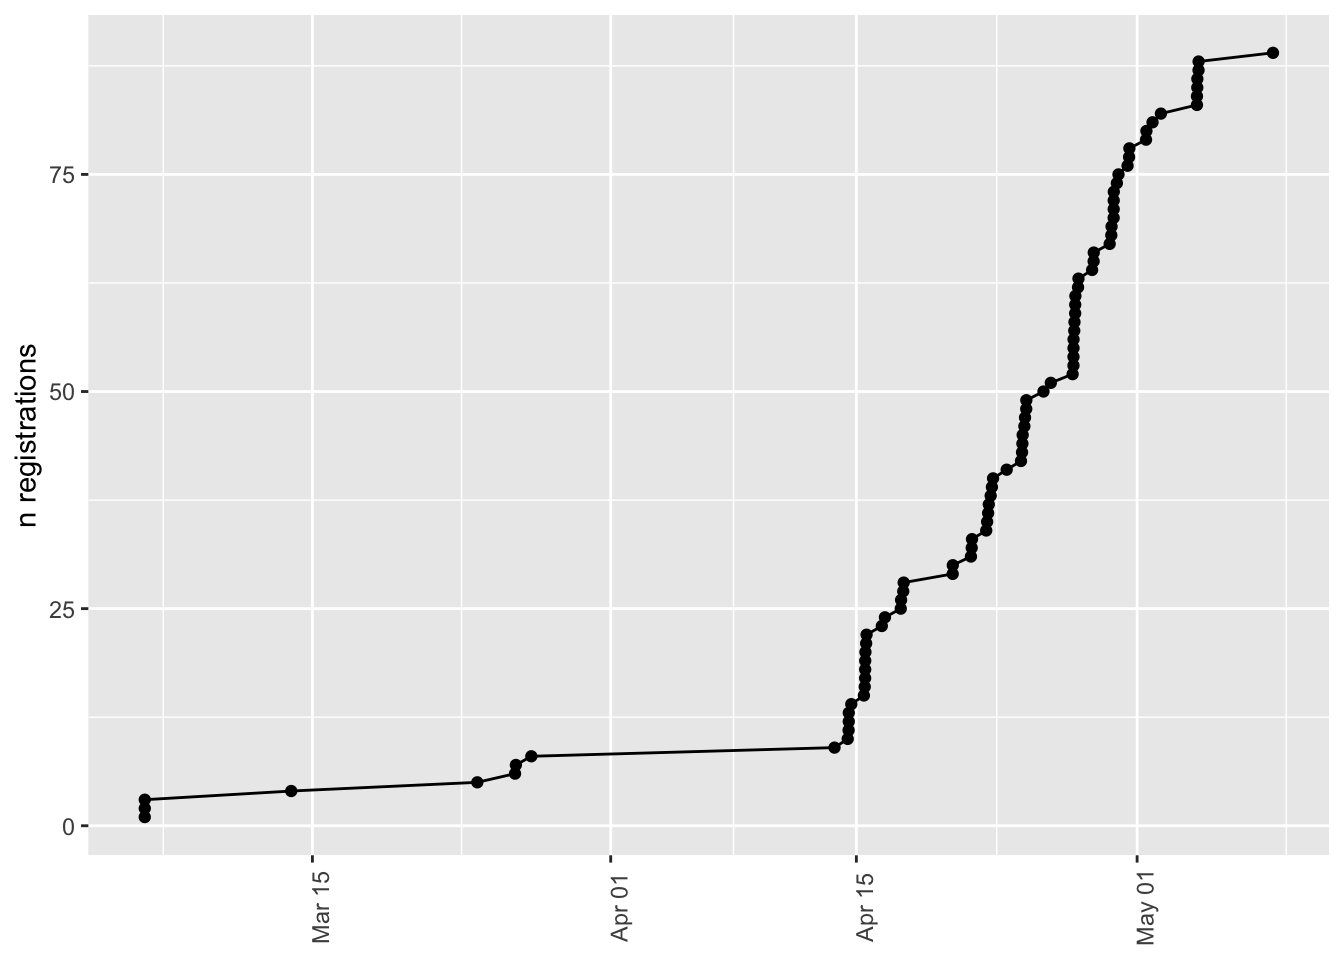
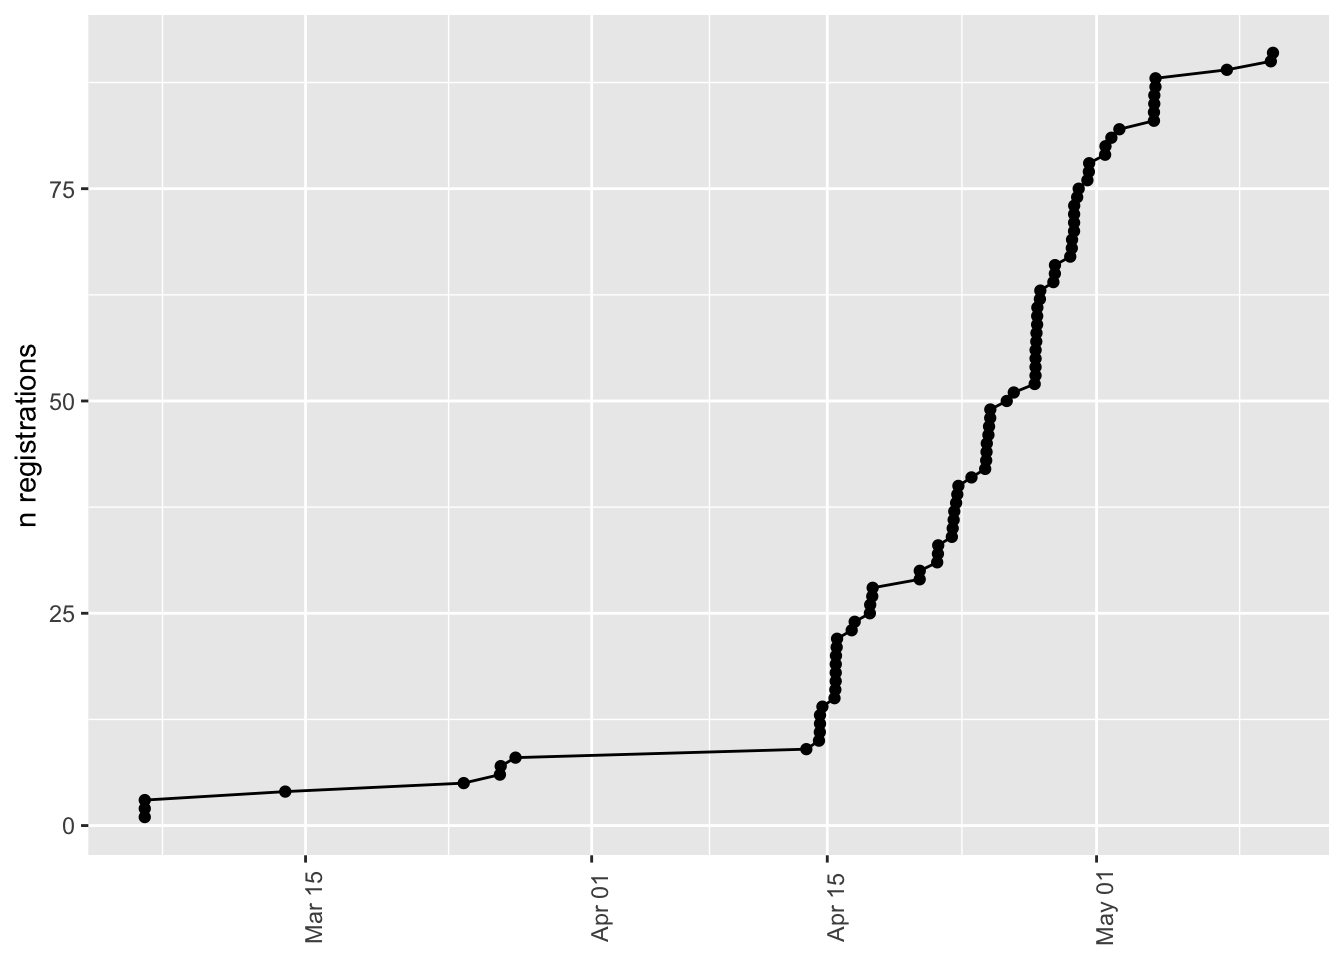
Rerender; add QR code for schedule to welcome slides.

diff --git a/day-1-welcome.html b/day-1-welcome.html
@@ -139,7 +139,15 @@
 <section id="welcome-please-check-in" class="slide level2">
 <h2>Welcome! Please check in</h2>
 
-<img data-src="include/fig/checkin-qr-code-1.png" class="quarto-figure quarto-figure-center r-stretch" width="960"></section>
+<img data-src="include/fig/fig-checkin-qr-code-1.png" id="fig-checkin-qr-code" class="quarto-figure quarto-figure-center r-stretch" width="960"><p class="caption">
+Figure&nbsp;1
+</p></section>
+<section id="bootcamp-schedule" class="slide level2">
+<h2>Bootcamp schedule</h2>
+
+<img data-src="include/fig/fig-schedule-qr-code-1.png" id="fig-schedule-qr-code" class="quarto-figure quarto-figure-center r-stretch" width="960"><p class="caption">
+Figure&nbsp;2
+</p></section>
 <section id="introductions" class="slide level2">
 <h2>Introductions</h2>
 <ul>

diff --git a/docs/signins.html b/docs/signins.html
@@ -349,14 +349,14 @@ pre > code.sourceCode > span > a:first-child::before { text-decoration: underlin
 <div class="code-copy-outer-scaffold"><div class="sourceCode cell-code" id="cb3"><pre class="sourceCode r code-with-copy"><code class="sourceCode r"><span id="cb3-1"><a href="#cb3-1" aria-hidden="true" tabindex="-1"></a><span class="fu">dim</span>(signins)</span></code></pre></div><button title="Copy to Clipboard" class="code-copy-button"><i class="bi"></i></button></div>
 </details>
 <div class="cell-output cell-output-stdout">
-<pre><code>[1] 37  5</code></pre>
+<pre><code>[1] 40  5</code></pre>
 </div>
 <details class="code-fold">
 <summary>Code</summary>
 <div class="code-copy-outer-scaffold"><div class="sourceCode cell-code" id="cb5"><pre class="sourceCode r code-with-copy"><code class="sourceCode r"><span id="cb5-1"><a href="#cb5-1" aria-hidden="true" tabindex="-1"></a><span class="fu">dim</span>(registrations_clean)</span></code></pre></div><button title="Copy to Clipboard" class="code-copy-button"><i class="bi"></i></button></div>
 </details>
 <div class="cell-output cell-output-stdout">
-<pre><code>[1] 89 11</code></pre>
+<pre><code>[1] 91 11</code></pre>
 </div>
 <details class="code-fold">
 <summary>Code</summary>
@@ -453,7 +453,7 @@ pre > code.sourceCode > span > a:first-child::before { text-decoration: underlin
 </div>
 <div class="cell-output cell-output-stderr">
 <pre><code>Warning in dplyr::full_join(signins_clean, people, by = NULL, copy = TRUE): Detected an unexpected many-to-many relationship between `x` and `y`.
-ℹ Row 14 of `x` matches multiple rows in `y`.
+ℹ Row 13 of `x` matches multiple rows in `y`.
 ℹ Row 75 of `y` matches multiple rows in `x`.
 ℹ If a many-to-many relationship is expected, set `relationship =
   "many-to-many"` to silence this warning.</code></pre>
@@ -468,7 +468,7 @@ pre > code.sourceCode > span > a:first-child::before { text-decoration: underlin
 </section>
 <section id="report" class="level2">
 <h2 class="anchored" data-anchor-id="report">Report</h2>
-<p>As of 2026-05-11, we have had <em>n</em>=38 attendees and presenters sign in.</p>
+<p>As of 2026-05-11, we have had <em>n</em>=41 attendees and presenters sign in.</p>
 <p>Here is the distribution of units.</p>
 <div class="cell">
 <details class="code-fold">

diff --git a/docs/registration.html b/docs/registration.html
@@ -537,8 +537,8 @@ Table&nbsp;9.1: A minimal data dictionary.
 <span id="cb12-3"><a href="#cb12-3" aria-hidden="true" tabindex="-1"></a>n_drop_outs <span class="ot">&lt;-</span> <span class="fu">sum</span>(registrations_clean<span class="sc">$</span>dropped_out)</span></code></pre></div><button title="Copy to Clipboard" class="code-copy-button"><i class="bi"></i></button></div>
 </details>
 </div>
-<p>As of 2026-05-11, we have <em>n</em>=89 registered attendees. We also have <em>n</em>=0 presenters. A handful of presenters also registered. Some people registered twice, and <em>n</em> = 9 have had to cancel, so we have <em>n</em>=74 unique attendees who plan to come.</p>
-<p>That is 98.7% of our target registration/attendance target of <em>n</em>=75.</p>
+<p>As of 2026-05-11, we have <em>n</em>=91 registered attendees. We also have <em>n</em>=0 presenters. A handful of presenters also registered. Some people registered twice, and <em>n</em> = 9 have had to cancel, so we have <em>n</em>=76 unique attendees who plan to come.</p>
+<p>That is 101.3% of our target registration/attendance target of <em>n</em>=75.</p>
 </section>
 <section id="time-series" class="level3 unnumbered">
 <h3 class="unnumbered anchored" data-anchor-id="time-series">Time series</h3>
@@ -948,7 +948,7 @@ Figure&nbsp;9.3: Registrations by college/unit.
 </div>
 </div>
 </div>
-<p>The bootcamp registrations represent <em>n</em>=43 departments and <em>n</em>=14 campuses, colleges, institutes, or administrative entities.</p>
+<p>The bootcamp registrations represent <em>n</em>=45 departments and <em>n</em>=14 campuses, colleges, institutes, or administrative entities.</p>
 </section>
 <section id="save-cleaned-files" class="level3">
 <h3 class="anchored" data-anchor-id="save-cleaned-files">Save cleaned files</h3>